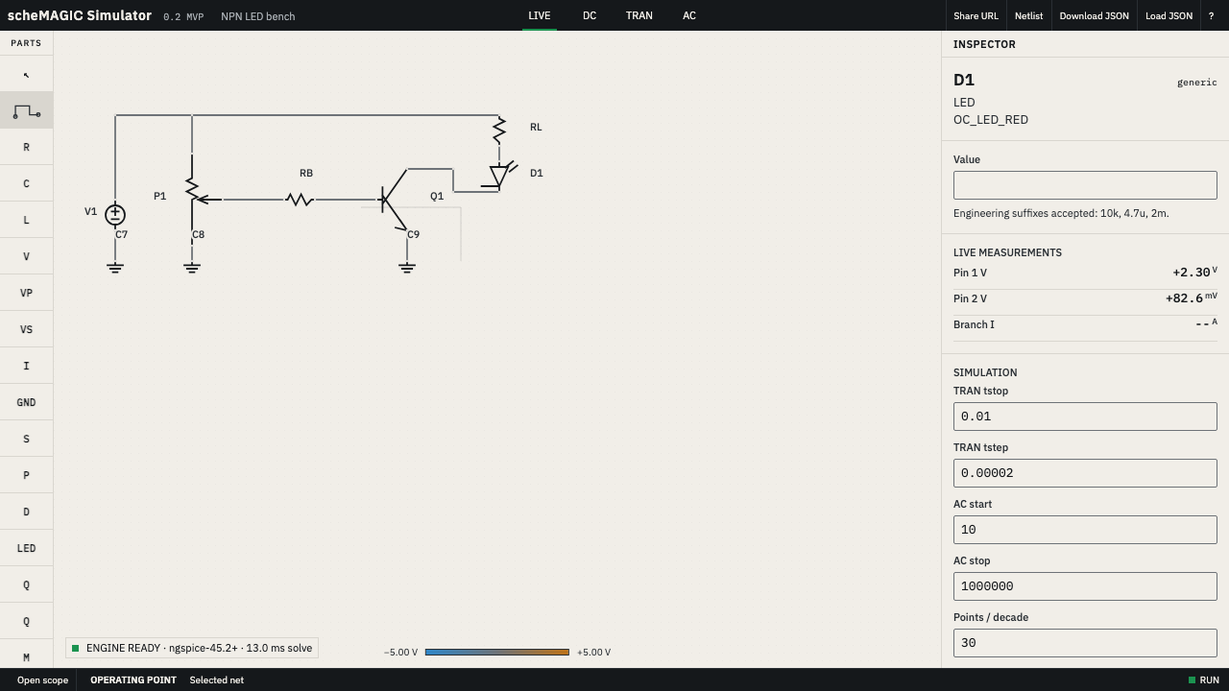
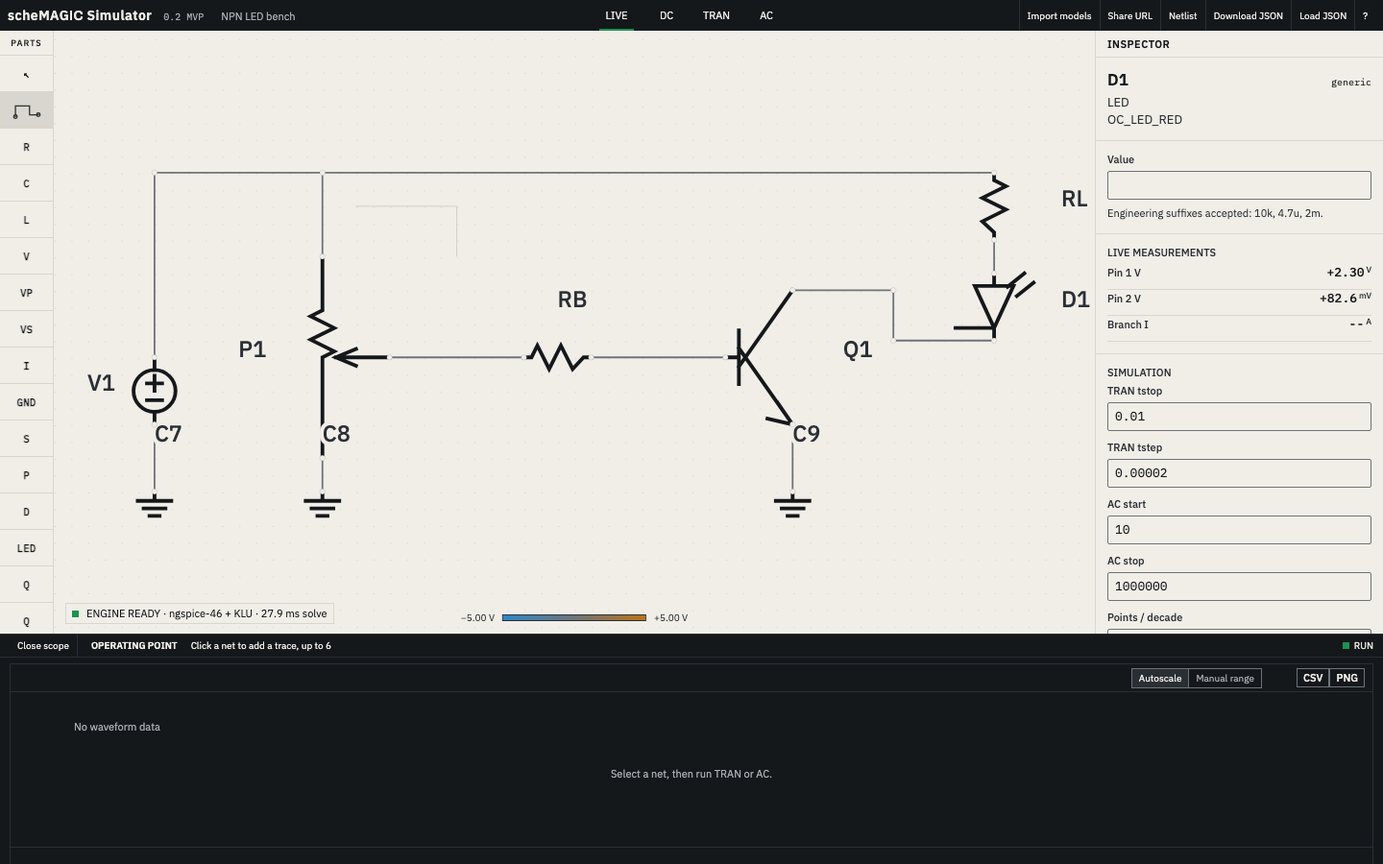
feat(web): finish simulator integration polish

diff --git a/apps/web/src/main.ts b/apps/web/src/main.ts
@@ -62,8 +62,8 @@ function scheduleSimulation(){clearTimeout(timer);timer=setTimeout(()=>void simu
 function renderDiagnostics(){const stack=must<HTMLElement>("#toast-stack");stack.innerHTML=diagnostics.map((entry,index)=>`<button class="error-toast" data-error="${index}"><span class="fault-glyph"></span>${esc(entry.message)}</button>`).join("");stack.querySelectorAll<HTMLButtonElement>("[data-error]").forEach(button=>button.addEventListener("click",()=>{const entry=diagnostics[Number(button.dataset.error)];if(entry?.componentId){selectedId=entry.componentId;renderInspector();}}));}
 function updateVisuals(){if(!generated)return;const voltages=new Map<string,number>();for(const node of new Set(Object.values(generated.wireNodes)))voltages.set(node,node==="0"?0:scalar(visualResult,`v(${node})`)??0);const vref=snapReference([...voltages.values()]);for(const wire of circuit.wires){const node=generated.wireNodes[wire.id]??"0",voltage=voltages.get(node)??0;editor.setWireStyle(wire.id,{stroke:voltageColor(voltage,vref),dash:voltage<-.05?"8 4":"none",width:Math.abs(voltage)<=.05?1.8:3});let current=0;for(const component of circuit.components){if(generated.componentNodes[component.id]?.includes(node)){const name=generated.componentCurrents[component.id];if(name){current=scalar(visualResult,name)??0;break;}}}editor.setWireCurrent(wire.id,current);}for(const component of circuit.components.filter(c=>c.type==="led")){const current=Math.abs(componentCurrent(component)??0),visible=Math.max(0,Math.min(1,(current-200e-6)/(20e-3-200e-6)));editor.setLedBrightness(component.id,visible**.65);}const reference=formatEngineering(vref,"V");must<HTMLElement>("#vref-negative").textContent=`−${reference.value.replace(/^[+− ]/,"")} ${reference.unit}`;must<HTMLElement>("#vref-positive").textContent=`+${reference.value.replace(/^[+− ]/,"")} ${reference.unit}`;scopePlot.setProbes(activeScopeProbes());scopePlot.setData(circuit.sim.mode,circuit.sim.mode==="tran"||circuit.sim.mode==="ac"?scopeResult:undefined);scopeEmpty.hidden=(scopeResult?.vectors.length??0)>0&&circuit.probes.length>0;renderProbeMarkers();renderInspector();renderDiagnostics();}
 async function simulate(){const generation=++solve;setStatus("Running ngspice WebAssembly solve","busy");diagnostics=loadDiagnostic?[loadDiagnostic]:[];const validation=validateCircuit(circuit);if(validation.length){diagnostics.push(...validation.map(issue=>({stage:"parse" as const,message:issue.message,...(issue.componentId?{componentId:issue.componentId}:{})})));setStatus(validation[0]!.message,"error");renderDiagnostics();return;}try{generated=generateNetlistWithImports(circuit,"op");const op=await client.runOpPoint(generated.netlist);if(generation!==solve)return;visualResult=op;window.__ocMetrics.rawfileBytes=op.rawfileBytes;window.__ocMetrics.warmOpMs.push(op.elapsedMs);if(circuit.sim.mode==="tran"||circuit.sim.mode==="ac"){generated=generateNetlistWithImports(circuit,circuit.sim.mode);scopeResult=circuit.sim.mode==="tran"?await client.runTransient(generated.netlist):await client.runAC(generated.netlist);if(generation!==solve)return;window.__ocMetrics.rawfileBytes=Math.max(op.rawfileBytes,scopeResult.rawfileBytes);}else scopeResult=undefined;setStatus(`ENGINE READY · ${engineLabel} · ${op.elapsedMs.toFixed(1)} ms solve`,"ready");updateVisuals();}catch(error){if(generation!==solve)return;const failure=error instanceof SimulationFailure?error:undefined;diagnostics=failure?.detail.diagnostics.length?failure.detail.diagnostics.map(entry=>{if(entry.componentId||entry.netLine===undefined)return entry;const mapped=generated?.lineMap.find(line=>line.line===entry.netLine);return mapped?.componentId?{...entry,componentId:mapped.componentId}:entry;}):[{stage:"engine",message:error instanceof Error?error.message:String(error)}];setStatus(diagnostics[0]?.message??"Simulation failed","error");renderDiagnostics();}finally{}}
-function bind(){must<HTMLButtonElement>("#import-models").addEventListener("click",()=>modelImportDialog.open());const about=must<HTMLElement>("#about-overlay");must<HTMLButtonElement>("#about-licences").addEventListener("click",()=>about.hidden=false);about.querySelector("[data-close-about]")?.addEventListener("click",()=>about.hidden=true);renderImportedPalette();document.querySelectorAll<HTMLButtonElement>("[data-tool]").forEach(button=>button.addEventListener("click",()=>{editor.setTool(button.dataset.tool as Parameters<typeof editor.setTool>[0]);document.querySelectorAll("[data-tool]").forEach(item=>item.classList.toggle("active",item===button));}));document.querySelectorAll<HTMLButtonElement>("[data-mode]").forEach(button=>button.addEventListener("click",()=>{const mode=button.dataset.mode as AnalysisMode;editor.edit(doc=>{doc.sim.mode=mode});document.querySelectorAll<HTMLButtonElement>("[data-mode]").forEach(item=>item.setAttribute("aria-selected",String(item===button)));must<HTMLElement>("#scope-title").textContent=mode==="tran"?"TRANSIENT":mode==="ac"?"AC RESPONSE":"OPERATING POINT";}));must<HTMLButtonElement>("#scope-toggle").addEventListener("click",()=>{shell.classList.toggle("scope-collapsed");must<HTMLButtonElement>("#scope-toggle").textContent=shell.classList.contains("scope-collapsed")?"Open scope":"Close scope";});must<HTMLButtonElement>("#copy-link").addEventListener("click",async()=>{const url=shareUrl(circuit);if(url.length>8000)setStatus("Share URL is long. Download JSON is recommended.","error");try{await navigator.clipboard.writeText(url);setStatus("Share URL copied","ready");}catch{history.replaceState(null,"",url);setStatus("Share URL placed in the address bar","ready");}});must<HTMLButtonElement>("#export-spice").addEventListener("click",()=>{try{download(`${workspace!.name}.cir`,generateNetlistWithImports(circuit,circuit.sim.mode==="live"?"op":circuit.sim.mode).netlist,"text/plain");}catch(error){setStatus(error instanceof Error?error.message:String(error),"error");}});must<HTMLButtonElement>("#export-json").addEventListener("click",()=>download(`${workspace!.name}.json`,canonicalizeCircuit(circuit),"application/json"));must<HTMLButtonElement>("#import-json").addEventListener("click",()=>must<HTMLInputElement>("#json-file").click());must<HTMLInputElement>("#json-file").addEventListener("change",async event=>{const file=(event.target as HTMLInputElement).files?.[0];if(!file)return;try{const loaded=migrateCircuit(JSON.parse(await file.text()));workspace=makeWorkspace(loaded);circuit=loaded;editor.setDocument(loaded);requestAnimationFrame(()=>editor.fit());renderImportedPalette();await saveWorkspace(workspace);scheduleSimulation();}catch(error){diagnostics=[{stage:"parse",message:error instanceof Error?error.message:String(error)}];renderDiagnostics();}});const shortcut=must<HTMLElement>("#shortcut-overlay");must<HTMLButtonElement>("#help-button").addEventListener("click",()=>shortcut.hidden=false);shortcut.querySelector("[data-close-overlay]")?.addEventListener("click",()=>shortcut.hidden=true);window.addEventListener("keydown",event=>{if(event.key==="?"&&!(event.target instanceof HTMLInputElement)){shortcut.hidden=false;}if(event.key==="Escape")shortcut.hidden=true;});bindWorkspaces();}
+function bind(){must<HTMLButtonElement>("#import-models").addEventListener("click",()=>modelImportDialog.open());const about=must<HTMLElement>("#about-overlay");must<HTMLButtonElement>("#about-licences").addEventListener("click",()=>about.hidden=false);about.querySelector("[data-close-about]")?.addEventListener("click",()=>about.hidden=true);renderImportedPalette();document.querySelectorAll<HTMLButtonElement>("[data-tool]").forEach(button=>button.addEventListener("click",()=>{editor.setTool(button.dataset.tool as Parameters<typeof editor.setTool>[0]);document.querySelectorAll("[data-tool]").forEach(item=>item.classList.toggle("active",item===button));}));document.querySelectorAll<HTMLButtonElement>("[data-mode]").forEach(button=>button.addEventListener("click",()=>{const mode=button.dataset.mode as AnalysisMode;editor.edit(doc=>{doc.sim.mode=mode});document.querySelectorAll<HTMLButtonElement>("[data-mode]").forEach(item=>item.setAttribute("aria-selected",String(item===button)));must<HTMLElement>("#scope-title").textContent=mode==="tran"?"TRANSIENT":mode==="ac"?"AC RESPONSE":"OPERATING POINT";}));must<HTMLButtonElement>("#scope-toggle").addEventListener("click",()=>{shell.classList.toggle("scope-collapsed");must<HTMLButtonElement>("#scope-toggle").textContent=shell.classList.contains("scope-collapsed")?"Open scope":"Close scope";});must<HTMLButtonElement>("#copy-link").addEventListener("click",async()=>{if(importedParts(circuit).length){setStatus("Imported model source stays browser-local. Use Download JSON to export the project.","error");return;}const url=shareUrl(circuit);if(url.length>8000)setStatus("Share URL is long. Download JSON is recommended.","error");try{await navigator.clipboard.writeText(url);setStatus("Share URL copied","ready");}catch{history.replaceState(null,"",url);setStatus("Share URL placed in the address bar","ready");}});must<HTMLButtonElement>("#export-spice").addEventListener("click",()=>{try{download(`${workspace!.name}.cir`,generateNetlistWithImports(circuit,circuit.sim.mode==="live"?"op":circuit.sim.mode).netlist,"text/plain");}catch(error){setStatus(error instanceof Error?error.message:String(error),"error");}});must<HTMLButtonElement>("#export-json").addEventListener("click",()=>download(`${workspace!.name}.json`,canonicalizeCircuit(circuit),"application/json"));must<HTMLButtonElement>("#import-json").addEventListener("click",()=>must<HTMLInputElement>("#json-file").click());must<HTMLInputElement>("#json-file").addEventListener("change",async event=>{const file=(event.target as HTMLInputElement).files?.[0];if(!file)return;try{const loaded=migrateCircuit(JSON.parse(await file.text()));workspace=makeWorkspace(loaded);circuit=loaded;editor.setDocument(loaded);requestAnimationFrame(()=>editor.fit());renderImportedPalette();await saveWorkspace(workspace);scheduleSimulation();}catch(error){diagnostics=[{stage:"parse",message:error instanceof Error?error.message:String(error)}];renderDiagnostics();}});const shortcut=must<HTMLElement>("#shortcut-overlay");must<HTMLButtonElement>("#help-button").addEventListener("click",()=>shortcut.hidden=false);shortcut.querySelector("[data-close-overlay]")?.addEventListener("click",()=>shortcut.hidden=true);window.addEventListener("keydown",event=>{if(event.key==="?"&&!(event.target instanceof HTMLInputElement)){shortcut.hidden=false;}if(event.key==="Escape")shortcut.hidden=true;});bindWorkspaces();}
 function bindWorkspaces(){const overlay=must<HTMLElement>("#workspace-overlay"),button=must<HTMLButtonElement>("#workspace-button");button.addEventListener("click",()=>{overlay.hidden=false;void renderWorkspaceList();});overlay.querySelector("[data-close-workspaces]")?.addEventListener("click",()=>overlay.hidden=true);must<HTMLButtonElement>("#new-workspace").addEventListener("click",async()=>{workspace=makeWorkspace(structuredClone(demoCircuit),"Untitled circuit");workspace.document.meta.title=workspace.name;editor.setDocument(workspace.document);requestAnimationFrame(()=>editor.fit());renderImportedPalette();circuit=workspace.document;await saveWorkspace(workspace);button.textContent=workspace.name;overlay.hidden=true;scheduleSimulation();});must<HTMLButtonElement>("#rename-workspace").addEventListener("click",async()=>{const name=prompt("Workspace name",workspace!.name)?.trim();if(!name)return;workspace!.name=name;editor.edit(doc=>doc.meta.title=name);workspace!.updatedAt=Date.now();await saveWorkspace(workspace!);button.textContent=name;void renderWorkspaceList();});must<HTMLButtonElement>("#duplicate-workspace").addEventListener("click",async()=>{workspace=makeWorkspace(circuit,`${workspace!.name} copy`);workspace.document.meta.title=workspace.name;editor.setDocument(workspace.document);requestAnimationFrame(()=>editor.fit());renderImportedPalette();circuit=workspace.document;await saveWorkspace(workspace);button.textContent=workspace.name;void renderWorkspaceList();});must<HTMLButtonElement>("#delete-workspace").addEventListener("click",async()=>{await deleteWorkspace(workspace!.id);workspace=makeWorkspace(structuredClone(demoCircuit));circuit=workspace.document;editor.setDocument(circuit);requestAnimationFrame(()=>editor.fit());renderImportedPalette();await saveWorkspace(workspace);button.textContent=workspace.name;overlay.hidden=true;scheduleSimulation();});}
 async function renderWorkspaceList(){const rows=await listWorkspaces();must<HTMLElement>("#workspace-list").innerHTML=rows.map(row=>`<button class="workspace-row" data-workspace="${row.id}"><strong>${esc(row.name)}</strong><span>${new Date(row.updatedAt).toLocaleString()}</span></button>`).join("");document.querySelectorAll<HTMLButtonElement>("[data-workspace]").forEach(row=>row.addEventListener("click",async()=>{const loaded=await loadWorkspace(row.dataset.workspace!);if(!loaded)return;workspace=loaded;circuit=loaded.document;editor.setDocument(circuit);requestAnimationFrame(()=>editor.fit());renderImportedPalette();must<HTMLElement>("#workspace-button").textContent=workspace.name;must<HTMLElement>("#workspace-overlay").hidden=true;scheduleSimulation();}));}
-async function boot(){bind();renderInspector();requestAnimationFrame(()=>editor.fit());renderImportedPalette();if(!openedFromShare)await saveWorkspace(workspace!);try{const ready=await client.ready;window.__ocMetrics.engineInitMs=ready.initMs;engineLabel=ready.engine;await simulate();}catch(error){diagnostics=[{stage:"engine",message:error instanceof Error?error.message:String(error)}];setStatus(diagnostics[0]!.message,"error");renderDiagnostics();}if("serviceWorker"in navigator)void navigator.serviceWorker.register("/sw.js");}
+async function boot(){bind();renderInspector();requestAnimationFrame(()=>editor.fit());renderImportedPalette();if(!openedFromShare)await saveWorkspace(workspace!);try{const ready=await client.ready;window.__ocMetrics.engineInitMs=ready.initMs;const wasmResource=performance.getEntriesByType("resource").find(entry=>entry.name.includes("ngspice-")&&entry.name.endsWith(".wasm")) as PerformanceResourceTiming|undefined;window.__ocMetrics.wasmTransferSize=wasmResource?.transferSize||wasmResource?.encodedBodySize||0;engineLabel=ready.engine;await simulate();}catch(error){diagnostics=[{stage:"engine",message:error instanceof Error?error.message:String(error)}];setStatus(diagnostics[0]!.message,"error");renderDiagnostics();}if("serviceWorker"in navigator)void navigator.serviceWorker.register("/sw.js");}
 void boot();window.addEventListener("beforeunload",()=>client.dispose());

diff --git a/apps/web/e2e/editor.spec.ts b/apps/web/e2e/editor.spec.ts
@@ -3,7 +3,7 @@ import { mkdirSync } from "node:fs";
 import { resolve } from "node:path";
 const shots=resolve(import.meta.dirname,"../../../spikes/p2-screenshots");
 test.beforeAll(()=>mkdirSync(shots,{recursive:true}));
-test.beforeEach(async({page})=>{await page.goto("/");await page.evaluate(async()=>{localStorage.clear();sessionStorage.clear();await new Promise<void>(resolve=>{const request=indexedDB.deleteDatabase("schemagic-simulator");request.onsuccess=()=>resolve();request.onerror=()=>resolve();request.onblocked=()=>resolve();});});await page.reload();await expect(page.getByTestId("engine-ready")).toBeVisible({timeout:45_000});});
+test.beforeEach(async({page})=>{await page.goto("/");await page.evaluate(async()=>{localStorage.clear();sessionStorage.clear();await new Promise<void>(resolve=>{const request=indexedDB.deleteDatabase("schemagic-simulator");request.onsuccess=()=>resolve();request.onerror=()=>resolve();request.onblocked=()=>resolve();});});await page.reload();await expect(page.getByTestId("engine-ready")).toBeVisible({timeout:45_000});await page.waitForFunction(()=>[...document.querySelectorAll<SVGGElement>(".editor-wire-group")].some(wire=>wire.style.stroke.includes("oklch")));});
 test("editor MVP workflow",async({page,context,browserName},testInfo)=>{
   await context.grantPermissions(["clipboard-read","clipboard-write"],{origin:"http://127.0.0.1:4173"}).catch(()=>undefined);
   if(testInfo.project.name==="chromium")await page.screenshot({path:resolve(shots,"default-bench.png"),fullPage:true});
@@ -21,4 +21,6 @@ test("editor MVP workflow",async({page,context,browserName},testInfo)=>{
   await page.waitForTimeout(500);await page.reload();await expect(page.getByText("scheMAGIC Simulator",{exact:true})).toBeVisible();await expect(page.locator(".editor-component")).toHaveCount(11);const savedValue=await page.evaluate(()=>new Promise<string|number|undefined>((resolve,reject)=>{const open=indexedDB.open("schemagic-simulator");open.onerror=()=>reject(open.error);open.onsuccess=()=>{const db=open.result,id=localStorage.getItem("schemagic.active-workspace");if(!id){resolve(undefined);return;}const request=db.transaction("workspaces").objectStore("workspaces").get(id);request.onerror=()=>reject(request.error);request.onsuccess=()=>resolve(request.result?.document?.components?.find((item:{value?:string|number})=>item.value==="4.7k")?.value);};}));expect(savedValue).toBe("4.7k");
   expect(browserName).toMatch(/chromium|firefox|webkit/);
 });
-test("captures wire and shortcut states",async({page},testInfo)=>{test.skip(testInfo.project.name!=="chromium","Screenshots are captured once in Chromium");const host=page.locator("#editor-host"),box=await host.boundingBox();if(!box)throw new Error("Editor host is not visible");await page.locator('[data-tool="wire"]').click();await page.mouse.click(box.x+320,box.y+180);await page.mouse.move(box.x+420,box.y+240);await expect(page.locator(".wire-preview")).toBeVisible();await page.screenshot({path:resolve(shots,"editor-mid-wire.png"),fullPage:true});await page.getByRole("button",{name:"Keyboard shortcuts"}).click();await expect(page.getByRole("dialog",{name:"Keyboard shortcuts"})).toBeVisible();await page.screenshot({path:resolve(shots,"shortcut-help.png"),fullPage:true});});
+test("imports a sanitized model with pin mapping",async({page},testInfo)=>{test.skip(testInfo.project.name!=="chromium","Import screenshot is captured once in Chromium");await page.getByRole("button",{name:"Import models"}).click();await page.locator("#model-text").fill(`.subckt SAFE_D A K\n.model DM D(Is=1e-14)\nD1 A K DM\n.ends SAFE_D`);await page.getByRole("button",{name:"Parse and review"}).click();await expect(page.getByText("Parse results")).toBeVisible();await expect(page.getByText("Mapping is complete and bijective.")).toBeVisible();await expect(page.getByText("Blocked items")).toBeVisible();await page.screenshot({path:resolve(shots,"import-models.png"),fullPage:true});await page.locator("[data-subckt-index=\"0\"]").getByRole("button",{name:"Add imported part"}).click();await page.getByRole("dialog",{name:"Import models"}).getByRole("button",{name:"Close"}).click();await expect(page.getByText("IMPORTED",{exact:true})).toBeVisible();await page.getByRole("button",{name:"Place imported SAFE_D"}).click();const box=await page.locator("#editor-host").boundingBox();if(!box)throw new Error("Editor host is not visible");await page.mouse.click(box.x+520,box.y+250);await expect(page.locator(".unverified-tag").last()).toHaveText("imported, unverified");await page.getByRole("button",{name:"Share URL"}).click();await expect(page.locator("#engine-status")).toHaveText("Imported model source stays browser-local. Use Download JSON to export the project.");});
+test("renders AC Bode twin panel with a probe",async({page},testInfo)=>{test.skip(testInfo.project.name!=="chromium","Bode screenshot is captured once in Chromium");await page.locator(".editor-hit").first().dispatchEvent("pointerdown",{button:0,pointerId:17,clientX:200,clientY:200});await page.locator(".schematic-editor").dispatchEvent("pointerup",{button:0,pointerId:17,clientX:200,clientY:200});await expect(page.locator(".scope-probe-marker")).toHaveCount(2);await page.locator('[data-mode="ac"]').click();await expect(page.locator("#scope-title")).toHaveText("AC RESPONSE");await expect(page.locator(".oc-waveform-viewer__trace")).toHaveCount(2,{timeout:45_000});await expect(page.locator(".scope-probe-marker")).toHaveCount(2);await page.screenshot({path:resolve(shots,"bode-waveform-viewer.png"),fullPage:true});});
+test("captures wire and shortcut states",async({page},testInfo)=>{test.skip(testInfo.project.name!=="chromium","Screenshots are captured once in Chromium");const host=page.locator("#editor-host"),box=await host.boundingBox();if(!box)throw new Error("Editor host is not visible");await page.locator('[data-tool="wire"]').click();await page.mouse.click(box.x+320,box.y+180);await page.mouse.move(box.x+420,box.y+240);await expect(page.locator(".wire-preview")).toBeVisible();await page.screenshot({path:resolve(shots,"editor-mid-wire.png"),fullPage:true});await page.getByRole("button",{name:"Keyboard shortcuts"}).click();await expect(page.getByRole("dialog",{name:"Keyboard shortcuts"})).toBeVisible();await page.screenshot({path:resolve(shots,"shortcut-help.png"),fullPage:true});await page.getByRole("dialog",{name:"Keyboard shortcuts"}).getByRole("button",{name:"Close"}).click();await page.getByRole("button",{name:"About + licences"}).click();const about=page.getByRole("dialog",{name:"About and licences"});await expect(about.getByText("ngspice-46")).toBeVisible();await expect(about.getByText("KLU and SuiteSparse")).toBeVisible();await expect(about.getByText("SPARSE 1.3")).toBeVisible();await expect(about.getByText("Emscripten 5.0.7")).toBeVisible();await expect(about.getByRole("link")).toHaveCount(4);});

diff --git a/apps/web/src/model-import.ts b/apps/web/src/model-import.ts
@@ -10,7 +10,7 @@ import {
   type PinMappingSpec,
   type SuggestedSymbol,
 } from "@opencircuit/model-import";
-import { generateNetlist, type AnalysisMode, type CircuitComponent, type CircuitDocument, type ComponentType, type GeneratedNetlist, type NetlistLine } from "@opencircuit/circuit-schema";
+import { generateNetlist, partByType, type AnalysisMode, type CircuitComponent, type CircuitDocument, type ComponentType, type GeneratedNetlist, type NetlistLine } from "@opencircuit/circuit-schema";
 
 export interface ImportedPartDefinition {
   id: string;
@@ -64,6 +64,10 @@ function baseType(symbol: SuggestedSymbol, source?: ImportedModel): ComponentTyp
 function symbolPreview(symbol: SuggestedSymbol): string {
   const label = symbol === "opamp" ? "OP" : symbol === "mosfet" ? "MOS" : symbol === "bjt" ? "BJT" : symbol === "diode" ? "D" : symbol === "regulator" ? "REG" : "SUB";
   return `<svg class="import-symbol-preview" viewBox="0 0 80 48" role="img" aria-label="Suggested ${esc(symbol)} symbol"><rect x="8" y="8" width="64" height="32"/><path d="M0 24h8m64 0h8"/><text x="40" y="28" text-anchor="middle">${label}</text></svg>`;
+}
+
+function supportsPlacement(symbol: SuggestedSymbol, pinCount: number): boolean {
+  return partByType(baseType(symbol)).pins.length === pinCount;
 }
 
 function resolveEmittedName(values: Record<string, string>, original: string): string {
@@ -239,13 +243,17 @@ export class ModelImportDialog {
 
   private modelCard(model: ImportedModel, index: number): string {
     const suggested = modelSymbol(model);
-    return `<article class="import-definition" data-model-index="${index}">${symbolPreview(suggested)}<div><strong>${esc(model.name)}</strong><span>.model ${esc(model.type)}</span><p>No subcircuit pin mapping is required.</p></div><button class="primary-button" data-import-model="${index}">Add imported part</button></article>`;
+    const supported = suggested !== "generic";
+    const status = supported ? "No subcircuit pin mapping is required." : "This model type has no compatible schematic symbol yet.";
+    return `<article class="import-definition" data-model-index="${index}">${symbolPreview(suggested)}<div><strong>${esc(model.name)}</strong><span>.model ${esc(model.type)}</span><p>${status}</p></div><button class="primary-button" data-import-model="${index}" ${supported ? "" : "disabled"}>Add imported part</button></article>`;
   }
 
   private subcktCard(subckt: ImportedSubckt, index: number): string {
     const spec = derivePinMappingSpec(subckt);
+    const supported = supportsPlacement(spec.suggestedSymbol, subckt.pins.length);
     const selects = Object.entries(spec.userMapping).map(([symbolPin, selected]) => `<label>${esc(symbolPin)}<select data-map-pin="${esc(symbolPin)}">${subckt.pins.map((pin, nodeIndex) => `<option value="${nodeIndex}" ${nodeIndex === selected ? "selected" : ""}>${esc(pin)}</option>`).join("")}</select></label>`).join("");
-    return `<article class="import-definition subckt-definition" data-subckt-index="${index}">${symbolPreview(spec.suggestedSymbol)}<div><strong>${esc(subckt.name)}</strong><span>${esc(spec.suggestedSymbol)} suggestion</span><div class="pin-map-grid">${selects}</div><p class="mapping-status" data-mapping-status>Mapping is complete and bijective.</p></div><button class="primary-button" data-import-subckt="${index}">Add imported part</button></article>`;
+    const status = supported ? "Mapping is complete and bijective." : `No placeable ${subckt.pins.length}-pin symbol is available yet.`;
+    return `<article class="import-definition subckt-definition" data-subckt-index="${index}">${symbolPreview(spec.suggestedSymbol)}<div><strong>${esc(subckt.name)}</strong><span>${esc(spec.suggestedSymbol)} suggestion</span><div class="pin-map-grid">${selects}</div><p class="mapping-status${supported ? "" : " invalid"}" data-mapping-status>${status}</p></div><button class="primary-button" data-import-subckt="${index}" ${supported ? "" : "disabled"}>Add imported part</button></article>`;
   }
 
   private bindDefinitionActions(sourceText: string): void {
@@ -265,12 +273,14 @@ export class ModelImportDialog {
       const validate = () => {
         card.querySelectorAll<HTMLSelectElement>("[data-map-pin]").forEach((select) => { spec.userMapping[select.dataset.mapPin!] = Number(select.value); });
         const validation = validatePinMapping(spec);
+        const supported = supportsPlacement(spec.suggestedSymbol, subckt.pins.length);
+        const valid = validation.valid && supported;
         const status = card.querySelector<HTMLElement>("[data-mapping-status]")!;
-        status.textContent = validation.valid ? "Mapping is complete and bijective." : validation.errors.join(" ");
-        status.classList.toggle("invalid", !validation.valid);
+        status.textContent = !supported ? `No placeable ${subckt.pins.length}-pin symbol is available yet.` : validation.valid ? "Mapping is complete and bijective." : validation.errors.join(" ");
+        status.classList.toggle("invalid", !valid);
         const button = card.querySelector<HTMLButtonElement>("[data-import-subckt]")!;
-        button.disabled = !validation.valid;
-        return validation.valid;
+        button.disabled = !valid;
+        return valid;
       };
       card.querySelectorAll("select").forEach((select) => select.addEventListener("change", validate));
       card.querySelector<HTMLButtonElement>("[data-import-subckt]")?.addEventListener("click", (event) => {

diff --git a/apps/web/vite.config.ts b/apps/web/vite.config.ts
@@ -1,6 +1,49 @@
-import { defineConfig } from "vite";
+import { existsSync, readFileSync } from "node:fs";
+import { resolve } from "node:path";
+import { brotliCompressSync, constants, gzipSync } from "node:zlib";
+import { defineConfig, type Plugin } from "vite";
+
+function compressWasmPreview(): Plugin {
+  const cache = new Map<string, Buffer>();
+  return {
+    name: "opencircuit-compress-wasm-preview",
+    configurePreviewServer(server) {
+      server.middlewares.use((request, response, next) => {
+        const pathname = request.url ? new URL(request.url, "http://127.0.0.1").pathname : "";
+        const accepted = request.headers["accept-encoding"] ?? "";
+        if (!pathname.endsWith(".wasm") || (!accepted.includes("br") && !accepted.includes("gzip"))) {
+          next();
+          return;
+        }
+        const assetPath = resolve(import.meta.dirname, "dist", pathname.replace(/^\//, ""));
+        if (!existsSync(assetPath)) {
+          next();
+          return;
+        }
+        const encoding = accepted.includes("br") ? "br" : "gzip";
+        const cacheKey = `${assetPath}:${encoding}`;
+        let compressed = cache.get(cacheKey);
+        if (!compressed) {
+          const source = readFileSync(assetPath);
+          compressed = encoding === "br"
+            ? brotliCompressSync(source, { params: { [constants.BROTLI_PARAM_QUALITY]: 9 } })
+            : gzipSync(source, { level: 9 });
+          cache.set(cacheKey, compressed);
+        }
+        response.statusCode = 200;
+        response.setHeader("Content-Type", "application/wasm");
+        response.setHeader("Content-Encoding", encoding);
+        response.setHeader("Vary", "Accept-Encoding");
+        response.setHeader("Content-Length", String(compressed.byteLength));
+        response.setHeader("Cache-Control", "public, max-age=31536000, immutable");
+        response.end(compressed);
+      });
+    },
+  };
+}
 
 export default defineConfig({
+  plugins: [compressWasmPreview()],
   worker: { format: "es" },
   build: {
     target: "es2022",

diff --git a/apps/web/playwright.config.ts b/apps/web/playwright.config.ts
@@ -2,9 +2,9 @@ import { defineConfig, devices } from "@playwright/test";
 export default defineConfig({
   testDir:"./e2e",timeout:90_000,fullyParallel:false,workers:1,reporter:"line",
   projects:[
-    {name:"chromium",use:{...devices["Desktop Chrome"]}},
-    {name:"firefox",use:{...devices["Desktop Firefox"]}},
-    {name:"webkit",use:{...devices["Desktop Safari"]}},
+    {name:"chromium",use:{...devices["Desktop Chrome"],viewport:{width:1440,height:900}}},
+    {name:"firefox",use:{...devices["Desktop Firefox"],viewport:{width:1440,height:900}}},
+    {name:"webkit",use:{...devices["Desktop Safari"],viewport:{width:1440,height:900}}},
   ],
   use:{baseURL:"http://127.0.0.1:4173",viewport:{width:1440,height:900},trace:"retain-on-failure",colorScheme:"light",reducedMotion:"no-preference"},
   webServer:{command:"npm run build && npx vite preview --host 127.0.0.1 --port 4173",url:"http://127.0.0.1:4173",reuseExistingServer:true,timeout:120_000},

diff --git a/spikes/p2-screenshots/NOTES.md b/spikes/p2-screenshots/NOTES.md
@@ -1,15 +1,43 @@
 # P2 screenshot and browser notes
 
-Captured at 1440 x 900 on Chromium:
+Captured at 1440 x 900 on Chromium after `ENGINE READY` was visible and an `oklch(...)` wire style had painted:
 
 - `default-bench.png`
 - `editor-mid-wire.png`
 - `shortcut-help.png`
+- `bode-waveform-viewer.png`
+- `import-models.png`
 
-Browser gate status on 2026-08-06:
+## Browser matrix
 
-- Chromium: all 3 Playwright tests passed.
-- Firefox: configured, but the Playwright browser installation was incomplete on this machine. Launch aborted because `libmozglue.dylib` was missing from the downloaded Nightly bundle. This is a local browser installation failure, not a WASM skip.
-- WebKit: configured, but its Playwright executable was not installed. The combined Firefox and WebKit download stalled after 10 minutes and was stopped. This is a local browser installation failure, not a WASM skip.
+Run on 2026-08-06 with no browser project conditionally skipped in `playwright.config.ts`:
 
-No browser is conditionally skipped in the Playwright configuration.
+| Browser | Result | Evidence |
+| --- | --- | --- |
+| Chromium | PASS | 5 of 5 Playwright tests passed in 25.6 s. |
+| Firefox | LOCAL BROWSER FAILURE | All 5 launch attempts aborted before test code ran. Playwright Firefox Nightly could not load `@rpath/libmozglue.dylib`; the file was missing from `/Users/hughp/Library/Caches/ms-playwright/firefox-1490/firefox/Nightly.app/Contents/MacOS/`. |
+| WebKit | LOCAL BROWSER FAILURE | All 5 launch attempts aborted before test code ran. `/Users/hughp/Library/Caches/ms-playwright/webkit-2203/pw_run.sh` was not installed. |
+
+A repair install for Firefox and WebKit could not start because another Playwright installation held `/Users/hughp/Library/Caches/ms-playwright/__dirlock`. These are local browser installation failures, not WASM skips or application test failures.
+
+## Measurements
+
+Measured from the production Vite preview in headless Chromium:
+
+- ngspice engine initialization: 2,151.6 ms
+- Initial operating-point solve after initialization: 10.5 ms
+- Warm operating-point solve: 1.0 ms
+- Measured rawfile payload: 501 bytes
+- Raw WASM asset: 6,244,155 bytes
+- Brotli WASM response: 1,580,992 bytes with `Content-Encoding: br`
+- Vite gzip report: 2,054.49 kB
+- Long tasks observed during measured boot: 1
+
+`window.__ocMetrics.wasmTransferSize` reports `0` because ngspice is fetched inside the simulation worker and the main window performance timeline cannot observe that worker resource entry. The transfer figure above was therefore measured from the actual preview response body and headers with Brotli accepted.
+
+## Workspace verification
+
+- Root `npm test`: PASS
+- Root `npm run build`: PASS
+- Production build emits `ngspice-BKHZAIfU.wasm` as a separate asset.
+- Vite still warns that Emscripten's `node:module` import is externalized for browser compatibility. Chromium execution is green despite the warning.
